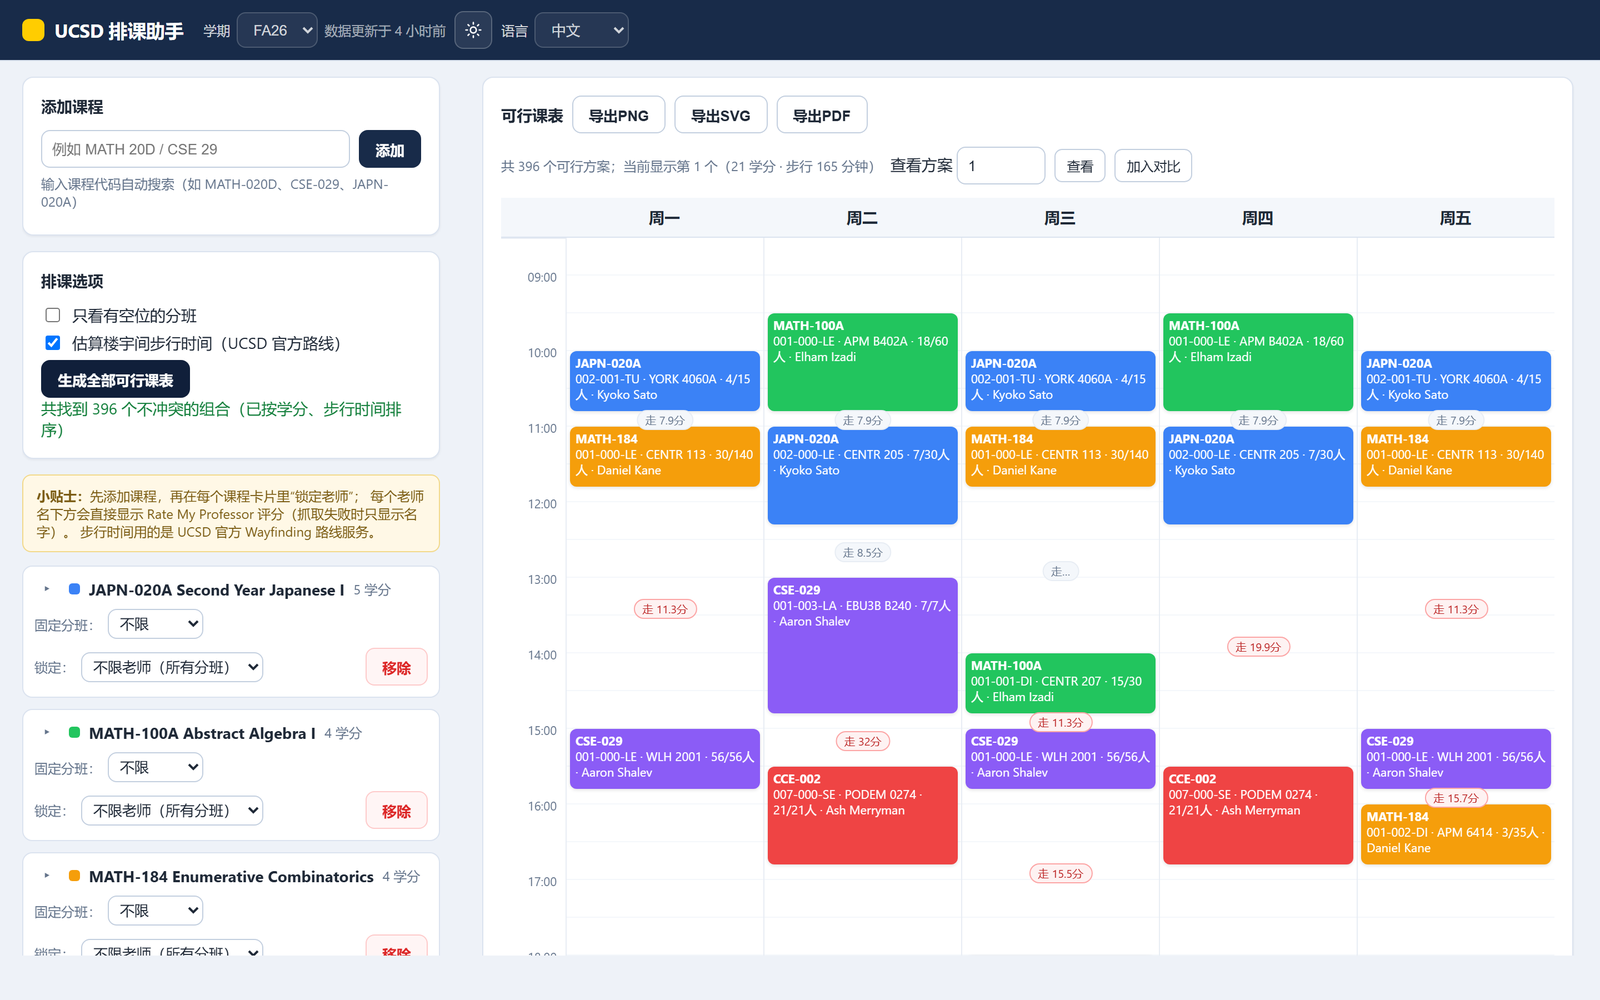
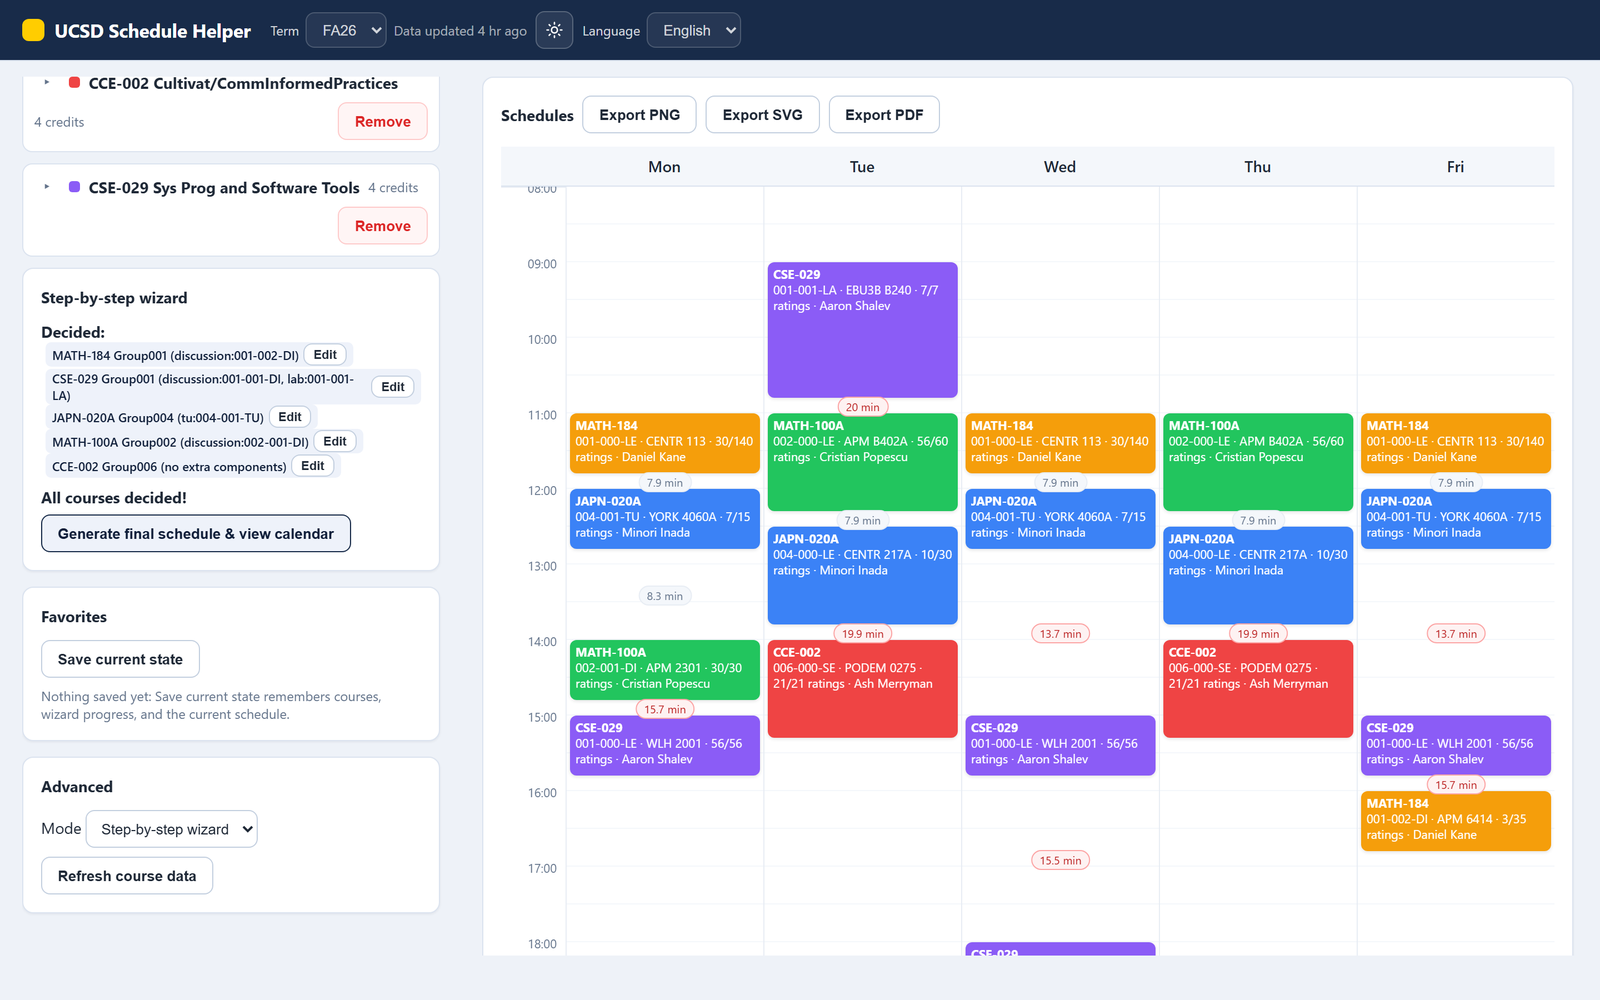
docs: wizard-mode demo screenshot; fix 'components pending' label for courses without extra components

diff --git a/index.html b/index.html
@@ -690,6 +690,7 @@ const I18N_EN = {
   " 个可行班": " feasible lectures",
   "分组": "Group ",
   "剩余座位": "seats left",
+  "无其他组件": "no extra components",
   "展开/折叠分班": "Expand/collapse sections",
   "组合 ": "Set ",
   "展开/折叠分班": "Expand/collapse sections",
@@ -2749,7 +2750,7 @@ function renderWizard() {
     for (const mod of decidedKeys) {
       const c = wizardCourses().find(x => x.module_code === mod);
       const d = wizardDecided()[mod];
-      const comps = Object.entries(d.components || {}).map(([t, code]) => t + ":" + code).join("，") || "组件待定";
+      const comps = Object.entries(d.components || {}).map(([t, code]) => t + ":" + code).join("，") || (d.noComponents ? "无其他组件" : "组件待定");
       html += '<span class="badge">' + escapeHtml(mod) + " 分组" + d.family + "（" + escapeHtml(comps) + '） <button class="ghost" data-change="' + mod + '">改</button></span> ';
     }
     html += "</div>";
@@ -2897,6 +2898,7 @@ function bindWizardButtons() {
   const confirm = $("wizardBody") && document.getElementById("wizConfirm");
   if (confirm) confirm.addEventListener("click", () => {
     const d = wizardDecided()[state.wizard.current];
+    if (!currentComponentOptions().length) d.noComponents = true;
     for (const grp of currentComponentOptions()) {
       if (!d.components[grp.type]) {
         const first = grp.sections.find(s => s.count > 0);
